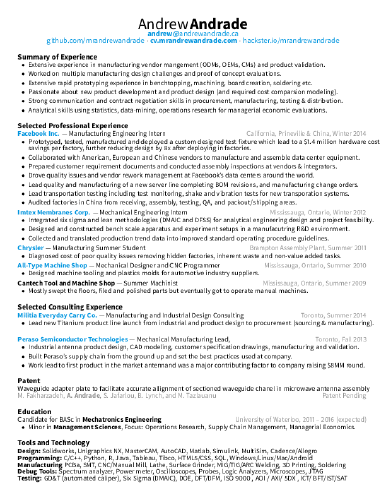
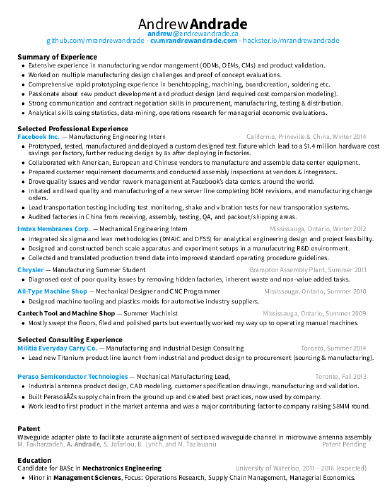
edited resume

Changed region(s): [[0.0311, 0.12, 0.9948, 0.96]]

diff --git a/manufacturing-resume/andrew-andrade-manufacturing.tex b/manufacturing-resume/andrew-andrade-manufacturing.tex
@@ -70,7 +70,7 @@
 \href{http://facebook.com}{\textbf{Facebook Inc.}} --- Manufacturing Engineering Intern \hfill {\color{gray} California, Prineville \& China, Winter 2014}
 \begin{itemize}
 
-\item Prototyped, tested, manufactured and deployed a custom designed test fixture which lead to a $1.4 million hardware cost savings per factory, further reducing design by 8x after deploying in factories.
+\item Prototyped, tested, manufactured and deployed a custom designed test fixture which lead to a \$1.4 million hardware cost savings per factory, further reducing design by 8x after deploying in factories.
 \item Collaborated with American, European and Chinese vendors to manufacture and assemble data center equipment.
 \item Prepared customer requirement documents and conducted assembly inspections at vendors \& integrators.
 \item Drove quality issues and vendor rework management at Facebook's data centers around the world.
